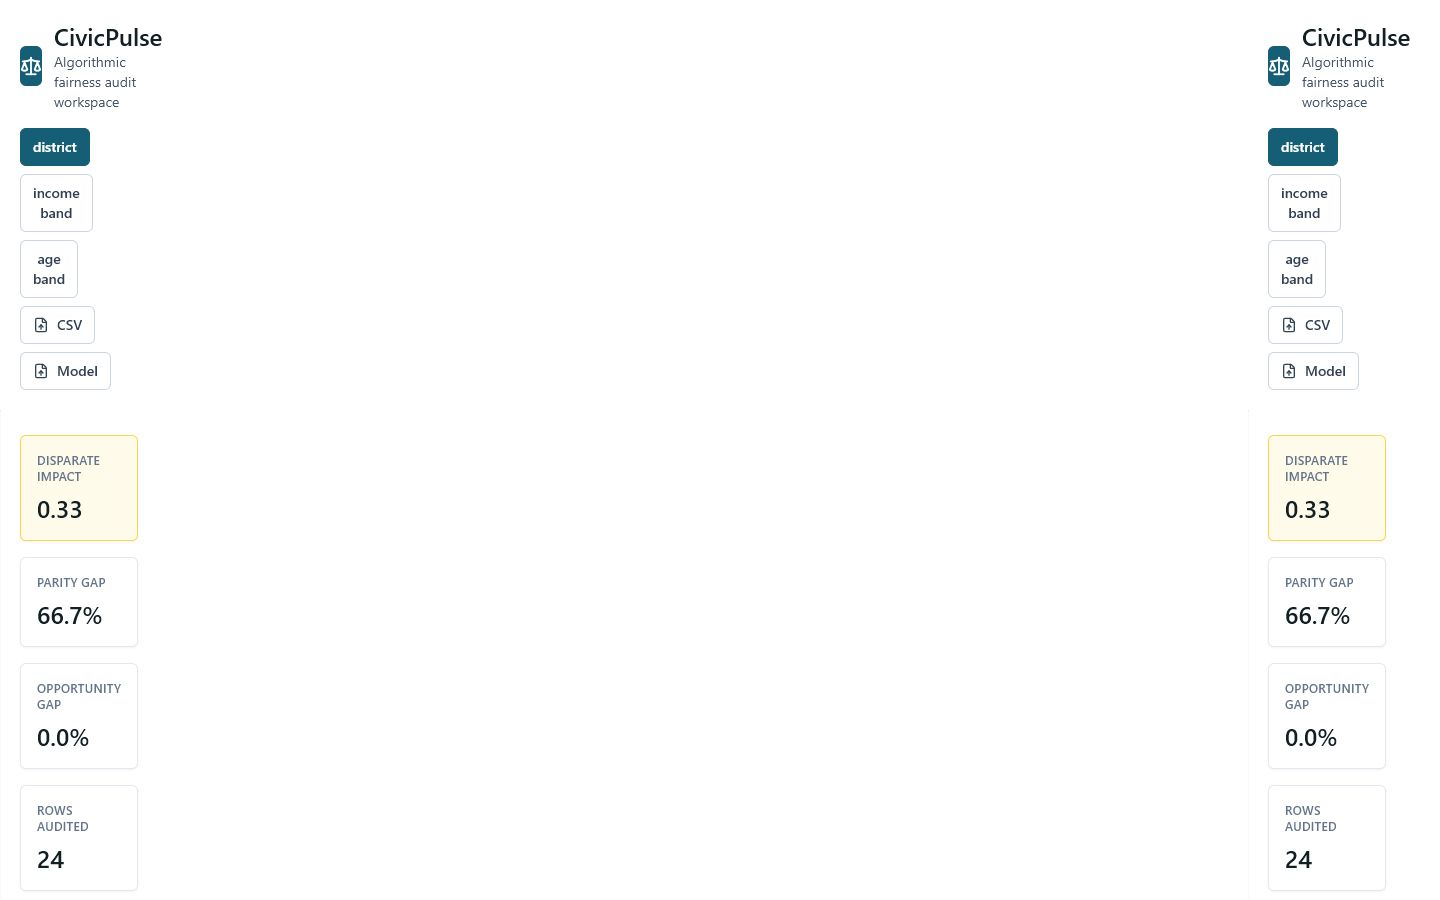
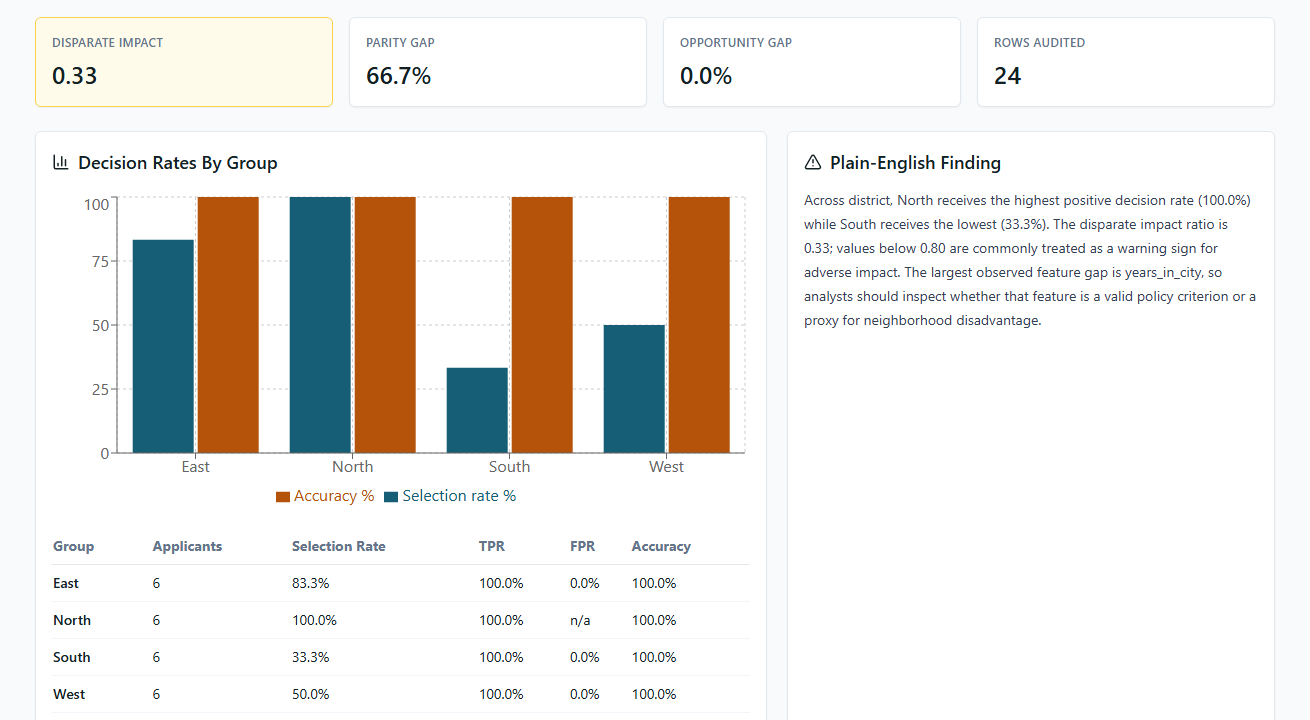
Improve dashboard evidence screenshots

diff --git a/frontend/src/main.tsx b/frontend/src/main.tsx
@@ -320,10 +320,36 @@ function App() {
                   <YAxis />
                   <Tooltip />
                   <Legend />
-                  <Bar dataKey="selection" name="Selection rate %" fill="#155e75" />
-                  <Bar dataKey="accuracy" name="Accuracy %" fill="#b45309" />
+                  <Bar dataKey="selection" name="Selection rate %" fill="#155e75" isAnimationActive={false} />
+                  <Bar dataKey="accuracy" name="Accuracy %" fill="#b45309" isAnimationActive={false} />
                 </BarChart>
               </ResponsiveContainer>
+            </div>
+            <div className="mt-4 overflow-x-auto">
+              <table className="w-full border-collapse text-sm">
+                <thead>
+                  <tr className="border-b text-left text-slate-500">
+                    <th className="py-2">Group</th>
+                    <th className="py-2">Applicants</th>
+                    <th className="py-2">Selection Rate</th>
+                    <th className="py-2">TPR</th>
+                    <th className="py-2">FPR</th>
+                    <th className="py-2">Accuracy</th>
+                  </tr>
+                </thead>
+                <tbody>
+                  {audit?.metrics.group_metrics.map((item) => (
+                    <tr key={item.group} className="border-b border-slate-100">
+                      <td className="py-2 pr-3 font-medium">{item.group}</td>
+                      <td className="py-2">{item.count}</td>
+                      <td className="py-2">{percent(item.selection_rate)}</td>
+                      <td className="py-2">{percent(item.true_positive_rate)}</td>
+                      <td className="py-2">{percent(item.false_positive_rate)}</td>
+                      <td className="py-2">{percent(item.accuracy)}</td>
+                    </tr>
+                  ))}
+                </tbody>
+              </table>
             </div>
           </div>
 

diff --git a/README.md b/README.md
@@ -10,9 +10,11 @@ CivicPulse is a full-stack, model-agnostic auditing platform for policy analysts
 
 These screenshots are captured from the running CivicPulse application, not mockups.
 
-![CivicPulse dashboard overview](docs/assets/dashboard-overview.png)
+![CivicPulse dashboard with fairness metrics, group rates, and plain-English finding](docs/assets/dashboard-overview.png)
 
-![Mitigation simulation and model benchmark](docs/assets/mitigation-and-benchmark.png)
+![Mitigation simulator and feature-gap explanation signals](docs/assets/mitigation-and-benchmark.png)
+
+![Model benchmark comparing logistic regression, XGBoost, and PyTorch adversarial debiasing](docs/assets/model-benchmark.png)
 
 ![FastAPI interactive API documentation](docs/assets/api-docs.png)
 

diff --git a/docs/assets/README.md b/docs/assets/README.md
@@ -2,7 +2,8 @@
 
 These images are committed so the GitHub README shows the working project instead of placeholder diagrams.
 
-- `dashboard-overview.png`: captured from the live React dashboard connected to the local FastAPI service.
-- `mitigation-and-benchmark.png`: captured from the live mitigation and model-comparison sections.
+- `dashboard-overview.png`: captured from the live React dashboard connected to the local FastAPI service. It shows the top fairness metrics, group decision-rate chart, group metrics table, and plain-English finding.
+- `mitigation-and-benchmark.png`: captured from the live mitigation and explainability sections.
+- `model-benchmark.png`: captured from the live benchmark section comparing logistic regression, XGBoost, and PyTorch adversarial debiasing.
 - `api-docs.png`: captured from the live FastAPI OpenAPI documentation at `/docs`.
 - `demo-video-thumbnail.png`: extracted from `demo/civicpulse_demo.mp4`.